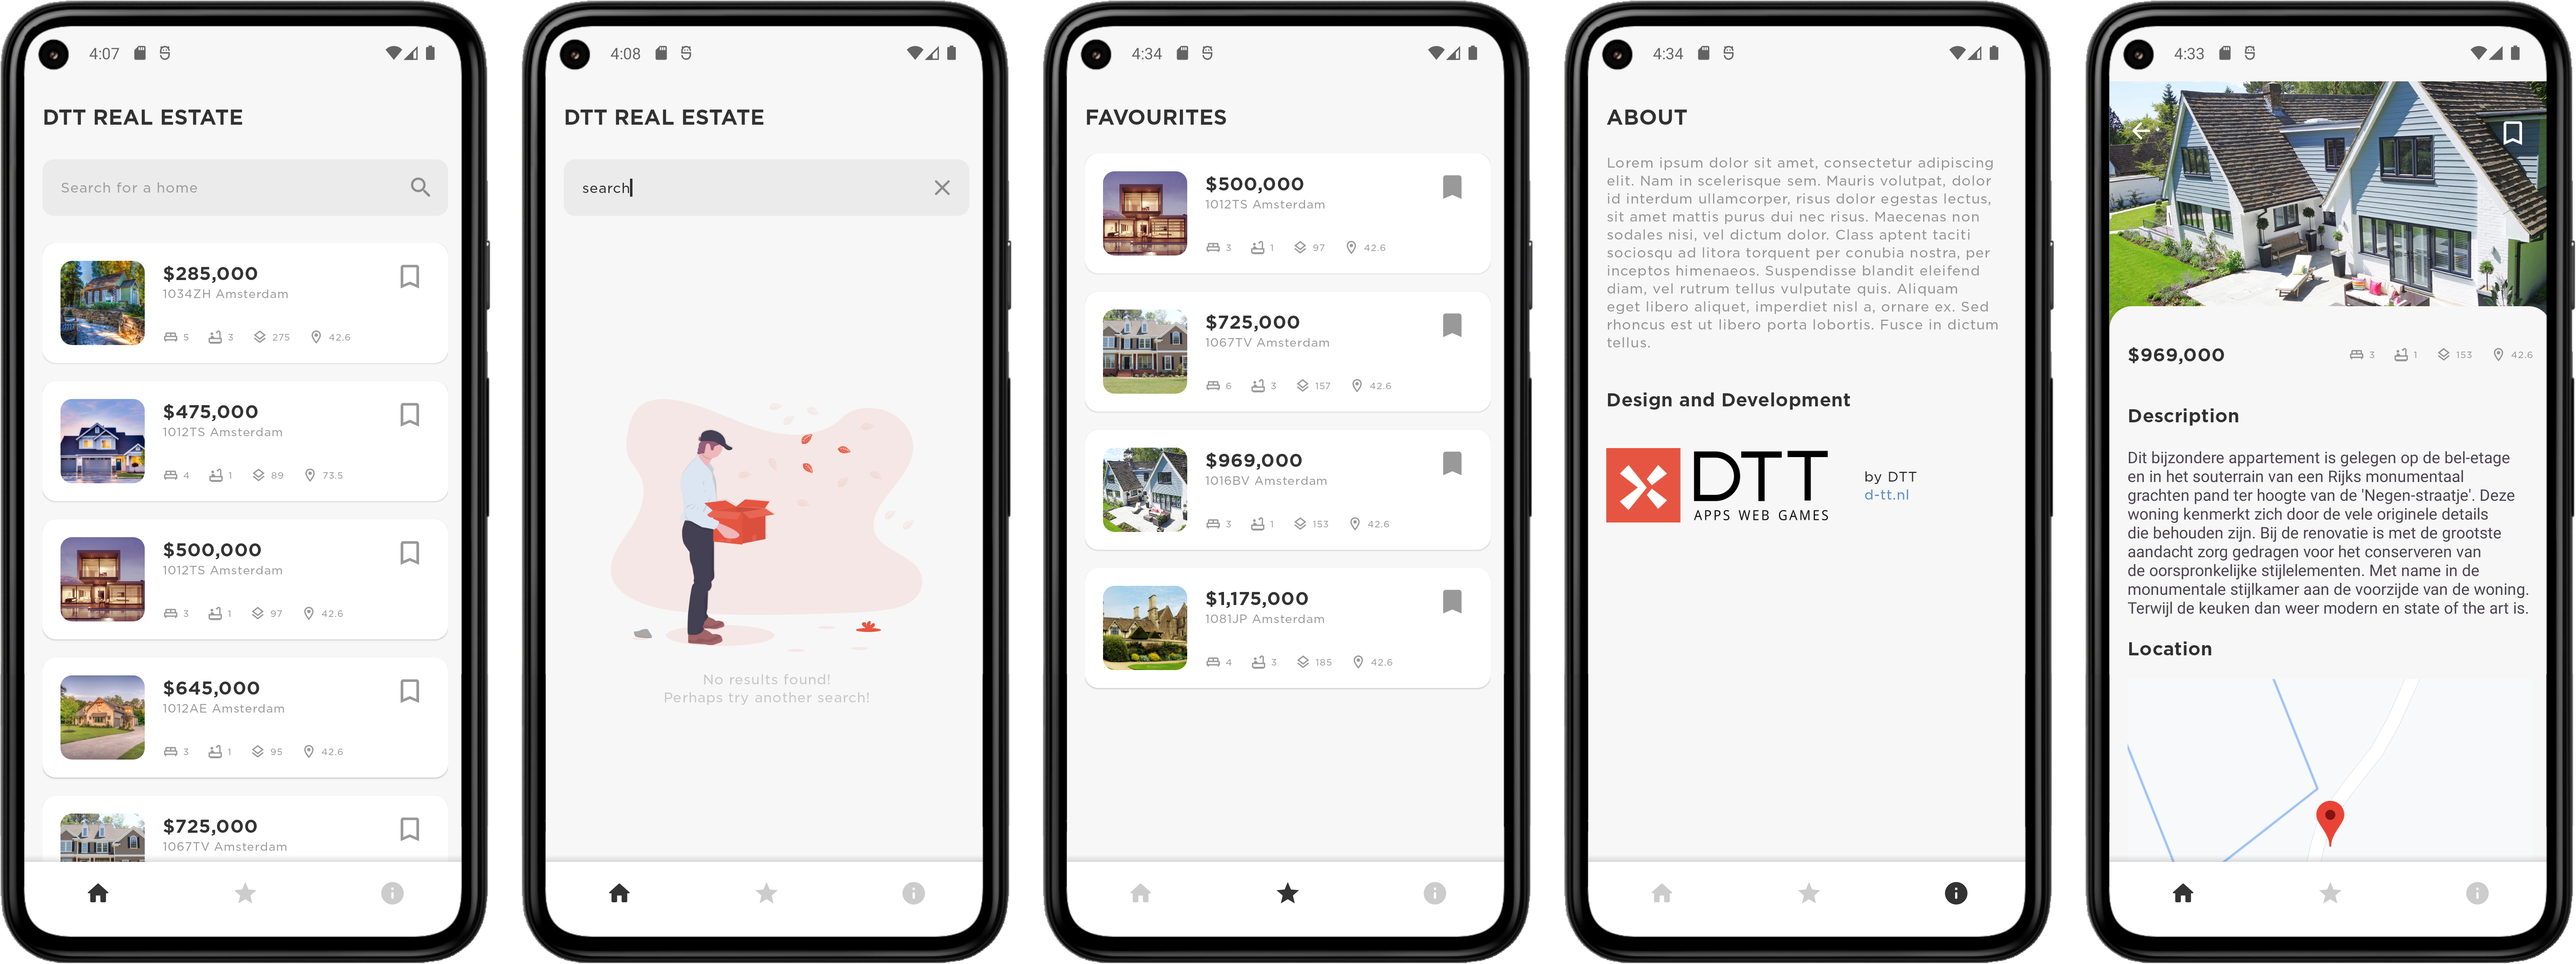
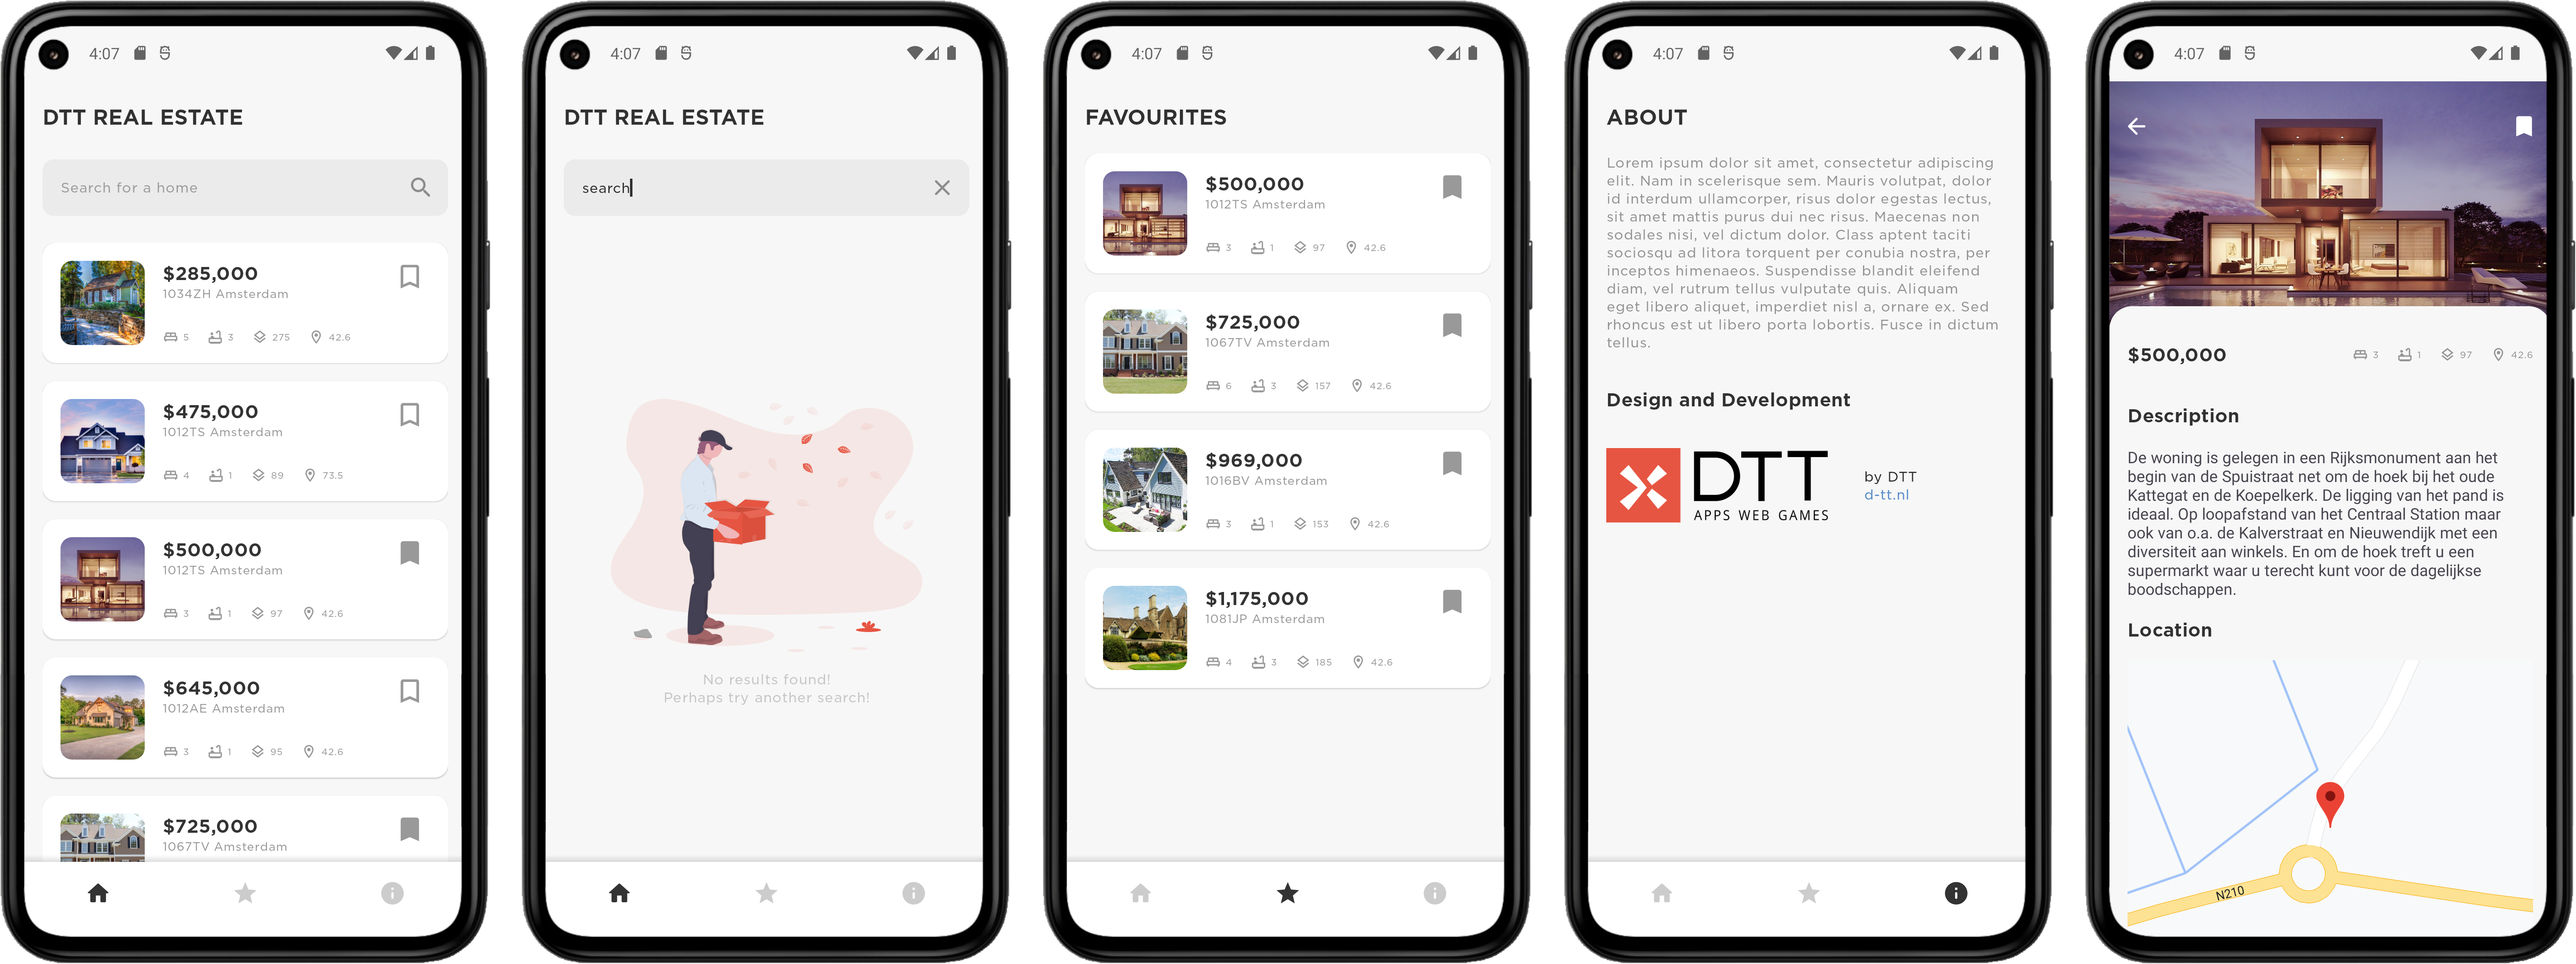
Improve search logic and bookmark appearance. Fix some keyboard and navigation issues.

Changed region(s): [[0.8088, 0.0619, 0.9954, 0.3715], [0.8088, 0.4644, 0.9643, 0.6811], [0.8088, 0.8049, 0.9954, 0.9597]]

diff --git a/app/src/main/java/com/anastasiaiu/dttrealestate/viewmodel/HouseViewModel.kt b/app/src/main/java/com/anastasiaiu/dttrealestate/viewmodel/HouseViewModel.kt
@@ -110,13 +110,59 @@ class HouseViewModel(private val application: DttRealEstateApplication) : ViewMo
     }
 
     /**
-     * Searches for houses with the provided value at the database and returns the result.
+     * Searches for houses with the provided value at the database
+     * and posts results to the [HouseViewModel].
      */
-    suspend fun search(searchValue: String): List<House> {
+    suspend fun search(searchValue: String) {
 
-        val searchQuery = "%${searchValue.replace(" ", "")}%"
+        // List of values to search.
+        val searchValueList = mutableListOf<String>()
 
-        return application.repository.searchAtDatabase(searchQuery)
+        // Result list of the search.
+        val searchResultList = mutableListOf<House>()
+
+        searchValueList.apply {
+
+            // Add all values to be searched.
+            addAll(searchValue.split(' '))
+
+            forEachIndexed { index, string ->
+
+                if (string.isNotBlank()) {
+
+                    if (index == 0) {
+
+                        // Add search result for the first string to the results.
+                        searchResultList.addAll(
+                            application.repository.searchAtDatabase(string)
+                        )
+
+                    } else {
+
+                        // Search result for the current string.
+                        val currentSearchResult = application.repository.searchAtDatabase(string)
+
+                        // List of result of already performed searches.
+                        val previousSearchResult = mutableListOf<House>()
+
+                        previousSearchResult.apply {
+
+                            // Add all existed values.
+                            addAll(searchResultList)
+
+                            // Remove all not matching results.
+                            forEach { house ->
+                                if (!currentSearchResult.contains(house)) {
+                                    searchResultList.remove(house)
+                                }
+                            }
+                        }
+                    }
+                }
+            }
+        }
+
+        searchHousesList.postValue(searchResultList)
     }
 }
 

diff --git a/app/src/main/java/com/anastasiaiu/dttrealestate/view/fragments/OverviewFragment.kt b/app/src/main/java/com/anastasiaiu/dttrealestate/view/fragments/OverviewFragment.kt
@@ -153,10 +153,17 @@ class OverviewFragment : BaseFragment() {
 
                 viewModel.apply {
                     searchQuery.postValue(editable.toString())
-                    searchHousesList.postValue(viewModel.search(editable.toString()))
+                    search(editable.toString())
                 }
             }
         }
+    }
+
+    override fun onResume() {
+        super.onResume()
+
+        // Set focus on the search field if it is not empty.
+        if (binding.searchEditText.text!!.isNotBlank()) binding.searchEditText.requestFocus()
     }
 
     /**

diff --git a/app/src/main/java/com/anastasiaiu/dttrealestate/model/local/HouseDao.kt b/app/src/main/java/com/anastasiaiu/dttrealestate/model/local/HouseDao.kt
@@ -25,6 +25,9 @@ interface HouseDao {
     @Query("SELECT * FROM houses WHERE is_bookmarked = 1 ORDER BY price")
     fun getAllBookmarkedHouses(): Flow<List<House>>
 
-    @Query("SELECT * FROM houses WHERE city LIKE :searchQuery OR zip LIKE :searchQuery ORDER BY price")
+    @Query(
+        "SELECT * FROM houses WHERE city LIKE '%' || :searchQuery || '%' " +
+                "OR zip LIKE '%' || :searchQuery || '%' ORDER BY price"
+    )
     suspend fun searchAtDatabase(searchQuery: String): List<House>
 }
